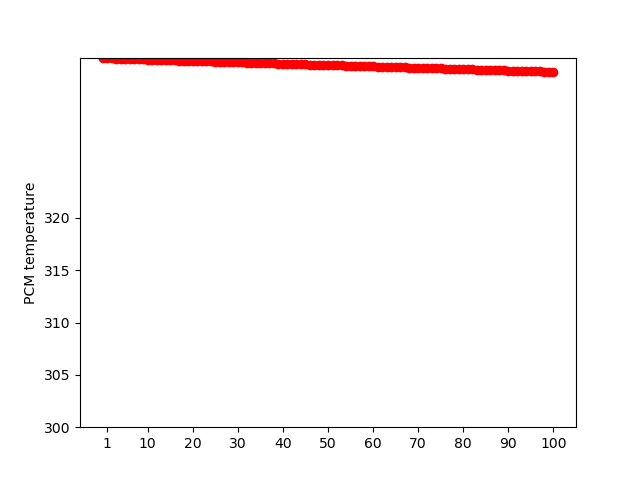
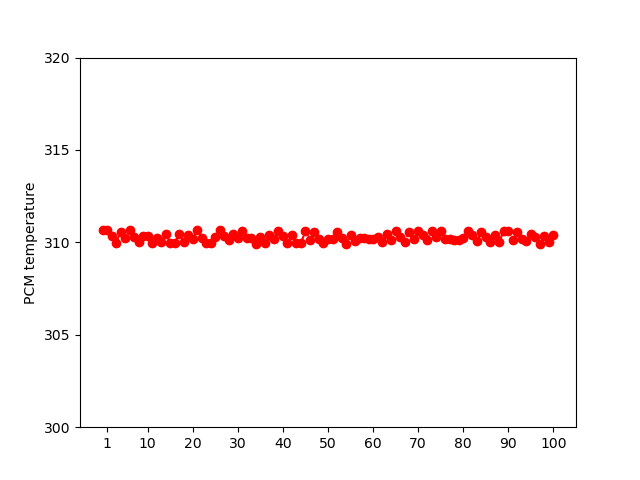
add new change

diff --git a/phasechange2025test6.py b/phasechange2025test6.py
@@ -5,6 +5,7 @@ import math
 import matplotlib.pyplot as plt
 from numpy import linalg as la
 
+''' I switched the WHILE loop for a DO-WHILE loop '''
 
 ##### time advancement #####
 N = 100;
@@ -30,7 +31,7 @@ x=1./N #liquid fraction
 #####Storage Recipied#######
 At = 0.0095 #m2 cross area of storage
 length = 0.15 #length of the storage in meters
-U = 39.5 # losses W/m2 K obtained from UA product
+U = 19.5 # losses W/m2 K obtained from UA product
 #Tref = 1. # Reference temperature in K
 P = 2. * math.pi * math.sqrt (At / math.pi ) # wetted perimeter in meters
 
@@ -49,7 +50,7 @@ S=100
 #Nt = int(S/dt)            # nmb of time intervals
 #S = Nt*dt                 # adjust T to fit time step dt
     
-Ta = np.zeros(10*N+1)         #ambient temperature   
+Ta = np.zeros(100*N+1)         #ambient temperature   
 T = np.zeros(N+1)          #solid temperature
 TT = np.zeros(N+1)         
 Tf = np.zeros(N+1)          #fluid temperature
@@ -60,7 +61,7 @@ b = np.zeros(N+1)
 
 #%%
 #***** External data*****#
-for i in range(0, 10*N +1 , 1): 
+for i in range(0, 100*N +1 , 1): 
     Ta [i] = 293.
 
 ##### CI ######
@@ -98,8 +99,7 @@ with open("Tamb2.txt", "r") as archivo:
 #print(result)
 
 ##### ITERATIVE PROCESS#####
-
-while((TT [55] - T [55]) < 10.):
+while True:
     xx = x
     x = 0.1 + (kk-5)*(1./N)        
     for i in range(1, N + 1 , 1):     
@@ -118,9 +118,9 @@ while((TT [55] - T [55]) < 10.):
        
         #print ((x - xx))
     
+        print ("it passed here")
 
-
-        if kk % 10 == 0:
+        if kk % 100 == 0:
             plt.plot(T,'r--o')
             plt.ylabel('PCM temperature')
             #plt.xlabel('Nº of nodes')
@@ -134,4 +134,6 @@ while((TT [55] - T [55]) < 10.):
             #print (Ta [kk-1])
     
     kk = kk + 1
+    if not (la.norm(T)-la.norm(TT))>20.:
+       break
 
